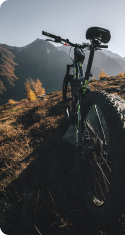
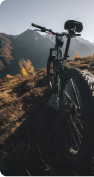
feat: added styling to card list

diff --git a/src/components/Card.js b/src/components/Card.js
@@ -1,6 +1,6 @@
 export default function Card(props) {
   return (
-    <section className="card">
+    <div className="card">
       <img
         className="card-image"
         src={`/assets/${props.img}`}
@@ -9,13 +9,13 @@ export default function Card(props) {
       <div className="card-stats">
         <img className="card-star" src="/assets/star.png" alt="Star icon" />
         <span>{props.rating}</span>
-        <span className="gray">({props.reviewCount})</span>
-        <span className="gray">• {props.location} </span>
+        <span className="gray">({props.reviewCount}) • </span>
+        <span className="gray">{props.location}</span>
       </div>
-      <h2>{props.title}</h2>
-      <p>
-        <span className="bold">From ${props.price} </span> / person
+      <p className="card-title">{props.title}</p>
+      <p className="card-price">
+        <span className="bold ">From ${props.price} </span> / person
       </p>
-    </section>
+    </div>
   );
 }

diff --git a/src/index.css b/src/index.css
@@ -95,14 +95,26 @@ nav {
 
 /* Card */
 
+.card-list {
+  display: flex;
+  flex-wrap: nowrap;
+  gap: 20px;
+  overflow-x: auto;
+}
+
 .card {
-  padding-left: 17px;
-  width: 175px;
+  width: 176px;
   font-size: 0.75rem;
+  flex: 0 0 auto;
+  display: flex;
+  flex-direction: column;
 }
 
 .card-image {
   width: 100%;
+  height: 235px;
+  border-radius: 9px;
+  margin-bottom: 9px;
 }
 
 .card-stats {
@@ -110,11 +122,16 @@ nav {
   align-items: center;
 }
 
-.card-stats span {
-  margin-right: 2.5px;
-}
-
 .card-star {
   height: 14px;
-  width: 14px;
+}
+
+.card-title {
+  overflow: hidden;
+  text-overflow: ellipsis;
+}
+
+.card-price {
+  margin-top: auto;
+  margin-bottom: 0;
 }

diff --git a/src/App.js b/src/App.js
@@ -1,7 +1,7 @@
 import Navbar from "./components/Navbar.js";
 // import Hero from "./components/Hero.js";
 import Card from "./components/Card.js";
-import data from "./components/data.js";
+import data from "./data.js";
 
 export default function App() {
   const cards = data.map((user) => {
@@ -17,12 +17,11 @@ export default function App() {
     );
   });
 
-  console.log(cards);
   return (
     <div className="container">
       <Navbar />
       {/* <Hero /> */}
-      {cards}
+      <section className="card-list">{cards}</section>
     </div>
   );
 }

diff --git a/src/data.js b/src/data.js
@@ -1,4 +1,4 @@
-export default [
+const data = [
   {
     id: 1,
     title: "Life Lessons with Katie Zaferes",
@@ -42,3 +42,5 @@ export default [
     openSpots: 3,
   },
 ];
+
+export default data;
